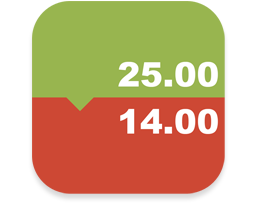
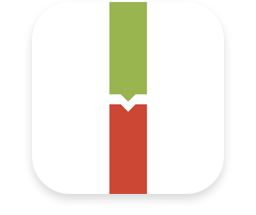
Updated on Sep 8 15:17 GTM

diff --git a/index_cn.html b/index_cn.html
@@ -44,57 +44,85 @@
 <p><strong>主界面</strong>：</p>
 
 <ul>
-<li>向下（上）拖动记录列表后停留一秒种，打开收入（支出）的记录设置页面；</li>
-<li>停留时间可以在设置页面进行修改，含0.5秒、1.0秒、1.5秒三个选项。</li>
-</ul><p><strong>标签界面</strong>：</p>
+  <li>向下（上）拖动记录列表后停留一秒种，打开收入（支出）的记录设置页面；</li>
+  <li>延迟时间可以在设置页面进行修改，含较快、正常、较慢三个选项。</li>
+</ul>
 
+<p><strong>数字键盘</strong>：</p>
 <ul>
-<li>向下拖动标签列表添加新标签。</li>
-</ul><p><strong>数据管理</strong>：</p>
+  <li><strong>删除</strong>：在键盘或数字区域向右滑动；</li>
+  <li><strong>恢复</strong>：在键盘或数字区域向左滑动；</li>
+  <li><strong>计算</strong>：该特性包含在“完整特性”包（需要购买）中。</li>
+</ul>
 
+<p><strong>标签界面</strong>：</p>
 <ul>
-<li>可在设置页面的“<strong>数据管理</strong>”部分中，对所有的<strong>记录</strong>和<strong>标签</strong>进行清空；</li>
-<li>所有照片都存储于一个专门的相册（“<strong>YeNom Photo Lib</strong>”）中；<br><strong>注</strong>: <em>由于时间关系，照片相关功能还未完善，存在一些问题，对此请您谅解！</em>
-</li>
+  <li>向下拖动标签列表添加新标签。</li>
+</ul>
+
+<p><strong>数据管理</strong>：</p>
+<ul>
+  <li>可在设置页面的“<strong>数据管理</strong>”部分中，对所有的<strong>记录</strong>和<strong>标签</strong>进行清空；</li>
+  <li>所有照片都存储于一个专门的相册（“<strong>YeNom Photo Lib</strong>”）中；<br>
+  <strong>注</strong>: <em>由于时间关系，照片相关功能还未完善，存在一些问题，对此请您谅解！</em></li>
+  <li>如果开启iCloud，数据则将存储于云端。通过 <strong><em>“设置”应用 -&gt; “iCloud” -&gt; “储存与备份” -&gt; “管理储存空间” -&gt; “YeNom”</em></strong> 可以获取数据存储情况。</li>
 </ul>
 
 <h1 id="change-log">更新日志</h1>
 
-<p><strong>v1.7.x @ 开发中</strong></p>
+<p><strong>v1.8.x @ 开发中</strong></p>
 <ul>
   <li>...</li>
 </ul>
 
+<p><strong>v1.7.11 @ 审核中</strong></p>
+<ul>
+  <li>修改邮件发送导航栏；</li>
+  <li>允许使用“免费码”来激活“完整特性”；</li>
+  <li>修改标签添加时使用的键盘；</li>
+  <li>修改记录中标签的宽度；</li>
+  <li>提供购买“完整特性”功能；</li>
+  <li>修复错误：当由于加载超时从捐赠页面返回上级页面后，导航反馈按钮状态错误；</li>
+  <li>修改延迟时间选项：较快、正常、较慢；</li>
+  <li>当用户选择删除标签时，提供一个确认的行为窗口；</li>
+  <li>修复错误：删除标签后重置已选择的索引；</li>
+  <li>优化性能；</li>
+  <li>修改应用图标；</li>
+  <li>为数字键盘添加计算功能；</li>
+  <li>替换原系统键盘为自定义键盘。</li>
+</ul>
+
 <p><strong>v1.6.8 @ 2012-08-23</strong></p>
 <ul>
-<li>修复错误：选中其中一个月下的某一栏数据，其它月份中的相同栏数据被同时选中；</li>
-<li>修复错误：统计中00:00和24:00时间下的数据重复统计；</li>
-<li>修复错误：删除单月数据时错误地删除了下一个月00:00时的数据；</li>
-<li>提供删除某一月份所有数据的功能；</li>
-<li>重命名设置页面中的“手势延迟时间”为“延迟时间”；</li>
-<li>优化了性能；</li>
-<li>在统计页面中加入年份设置功能；</li>
-<li>完善统计页面：支持月、日结算。</li>
+  <li>修复错误：选中其中一个月下的某一栏数据，其它月份中的相同栏数据被同时选中；</li>
+  <li>修复错误：统计中00:00和24:00时间下的数据重复统计；</li>
+  <li>修复错误：删除单月数据时错误地删除了下一个月00:00时的数据；</li>
+  <li>提供删除某一月份所有数据的功能；</li>
+  <li>重命名设置页面中的“手势延迟时间”为“延迟时间”；</li>
+  <li>优化了性能；</li>
+  <li>在统计页面中加入年份设置功能；</li>
+  <li>完善统计页面：支持月、日结算。</li>
 </ul>
 
 <p><strong>v1.5.4 @ 2012-08-23</strong></p><!--内测中 <a href="https://testflightapp.com/join/66e9a8d90aa54268ca89adbdfc457ab6-MTAyODU2/"><strong> &gt; 申请</strong></a></strong></p-->
 <ul>
-<li>允许用户启用/关闭iCloud服务；</li>
-<li>加入iCloud；</li>
-<li>允许删除单条记录。</li>
+  <li>允许用户启用/关闭iCloud服务；</li>
+  <li>加入iCloud；</li>
+  <li>允许删除单条记录。</li>
 </ul>
 
 <p><strong>v1.4.3 @ 2012-08-09</strong></p>
 <ul>
-<li>加入一些手势相关的帮助页面；</li>
-<li>修复一个错误：清空记录后再添加一个新记录后，字体大小错误；</li>
-<li>移除主界面左上角的<code>+</code> / <code>-</code>按钮，只使用拖动手势来添加记录；</li>
-<li>修改了部分界面；</li>
-<li>将捐赠以应用内购买的形式加入到设置页面中。</li>
-</ul><p><strong>v1.2.4 @ 2012-07-26</strong></p>
+  <li>加入一些手势相关的帮助页面；</li>
+  <li>修复一个错误：清空记录后再添加一个新记录后，字体大小错误；</li>
+  <li>移除主界面左上角的<code>+</code> / <code>-</code>按钮，只使用拖动手势来添加记录；</li>
+  <li>修改了部分界面；</li>
+  <li>将捐赠以应用内购买的形式加入到设置页面中。</li>
+</ul>
 
+<p><strong>v1.2.4 @ 2012-07-26</strong></p>
 <ul>
-<li>应用商店初始版本。</li>
+  <li>应用商店初始版本。</li>
 </ul>
 
 <h1 id="feedback">反馈</h1>
@@ -105,7 +133,7 @@
 <p>谢谢！ :)</p>
 
 <hr />
-<small>Page last modified on Aug 23, 2012 by <a href="https://github.com/Kjuly">Kjuly</a>.</small>
+<small>Page last modified on Sep 8, 2012 by <a href="https://github.com/Kjuly">Kjuly</a>.</small>
 
 </section>
 

diff --git a/index.html b/index.html
@@ -43,26 +43,51 @@
 <p><strong>Root View</strong>:</p>
 <ul>
 <li>Drag the table view down (up) and hold a second to open the record setting view for income (expenses);</li>
-<li>You can change the time in settings view, and there're three options (0.5s, 1.0s, 1.5s) available.</li>
+<li>You can change the delay time in settings view, and there're three options (Fast, Normal, Slow) available.</li>
+</ul>
+
+<p><strong>Keyboard</strong>:</p>
+<ul>
+  <li><strong>Delete Backward</strong>: Swipe RIGHT on keyboard or text field;</li>
+  <li><strong>Recover Backward</strong>: Swipe LEFT;</li>
+  <li><strong>Calculation</strong>: This feature is included in "Full Features" package, which is needed to purchase.</li>
 </ul>
 
 <p><strong>Tag View</strong>:</p>
 <ul>
-<li>Drag the table view down to add a new tag.
-</li></ul>
+  <li>Drag the table view down to add a new tag.</li>
+</ul>
 
 <p><strong>Data Management</strong>:</p>
 <ul>
-<li>You can clean all <strong>records</strong> or <strong>tags</strong> in settings view's "<strong>Data Management</strong>" section;</li>
-<li>Photos are stored in Albums with the name of "<strong>YeNom Photo Lib</strong>";<br><strong>Note</strong>: <em>Photo related features haven't managed very well right now, sorry for that!</em>
-</li>
+  <li>You can clean all <strong>records</strong> or <strong>tags</strong> in settings view's "<strong>Data Management</strong>" section;</li>
+  <li>Photos are stored in Albums with the name of "<strong>YeNom Photo Lib</strong>";<br>
+  <strong>Note</strong>: <em>Photo related features haven't managed very well right now, sorry for that!</em></li>
+  <li>If iCloud is enabled, data will be stored on remote server. You can get the storage info through your <strong><em>"Settings.App" -&gt; "iCloud" -&gt; "Storage &amp; Backup" -&gt; "Manage Storage" -&gt; "YeNom"</em></strong>.</li>
 </ul>
 
 <h1 id="change-log">Change Log</h1>
 
-<p><strong>v1.7.x @ Dev</strong></p>
+<p><strong>v1.8.x @ Dev</strong></p>
 <ul>
   <li>...</li>
+</ul>
+
+<p><strong>v1.7.11 @ Review</strong></p>
+<ul>
+  <li>Change navigation bar style for mail view;</li>
+  <li>Allow to enter 'Free Code' to turn 'Full Features' on;</li>
+  <li>Modify default keyboard style for tag adding;</li>
+  <li>Fix record tag's frame width;</li>
+  <li>Enable purchase for 'Full Features';</li>
+  <li>Fix navigation bar back button's state: back to previous view from donate view when loading timeout;</li>
+  <li>Modify options (Fast, Normal, Slow) for delay time setting;</li>
+  <li>Offer an action sheet to user for confirming to delete the tag;</li>
+  <li>Reset selected cell index after remove the tag item;</li>
+  <li>Optimize performance;</li>
+  <li>Change icon;</li>
+  <li>Add basic calculation function for number pad;</li>
+  <li>Change system keyboard to customize keyboard for number pad.</li>
 </ul>
 
 <p><strong>v1.6.8 @ 2012-08-23</strong></p>
@@ -107,7 +132,7 @@
 <p>Thank you! :)</p>
 
 <hr />
-<small>Page last modified on Aug 23, 2012 by <a href="https://github.com/Kjuly">Kjuly</a>.</small>
+<small>Page last modified on Sep 8, 2012 by <a href="https://github.com/Kjuly">Kjuly</a>.</small>
 
 </section>
 
